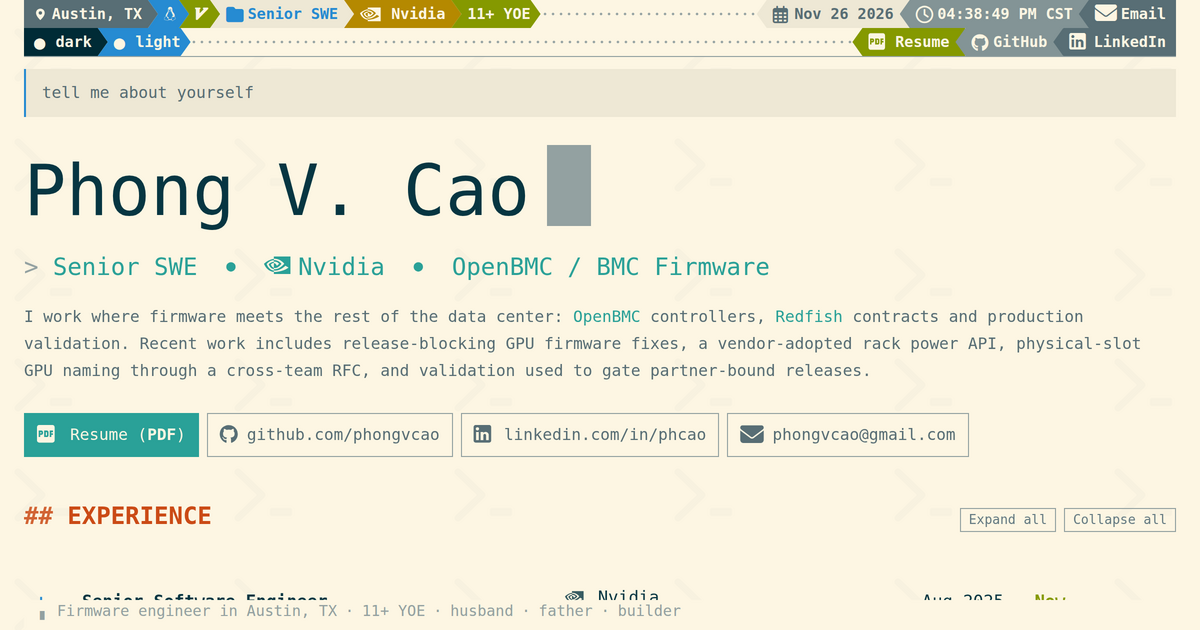
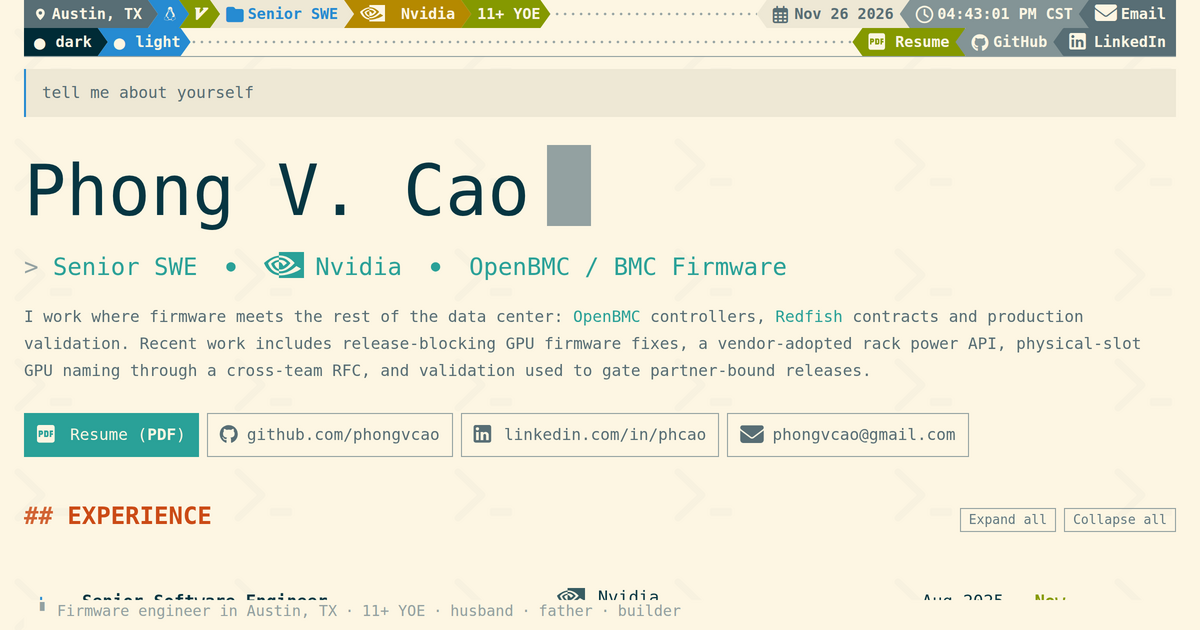
site: brand marks actually reach 1.5x cap
The sprite <svg> kept a square viewBox, so every mark was letterboxed inside a
square box: the eye measured 1.02x cap, Arista 1.14x, while the square marks
hit 1.50x. Dropping the outer viewBox and giving each mark its trimmed ratio
as an explicit width fixes it. Ink measured from screenshots at 4x:

  Nvidia   2.18 x 1.50 cap      Tesla   1.50 x 1.44
  Google   1.46 x 1.50          Arista  2.00 x 1.50
  Hire4Real 1.50 x 1.50

Powerline mark and hero mark were also inheriting the inflated glyph font
size; both now measure 1.50x cap.

diff --git a/index.html b/index.html
@@ -93,7 +93,7 @@
         <a class="pl-seg pl-blue" href="https://www.kernel.org/" target="_blank" rel="noopener" aria-label="Linux kernel" title="Linux"><span aria-hidden="true">&#xF17C;</span></a>
         <a class="pl-seg pl-vim pl-hide-sm" href="https://www.vim.org/" target="_blank" rel="noopener" aria-label="Vim" title="Vim"><span aria-hidden="true">&#xE62B;</span></a>
         <a class="pl-seg pl-dir pl-hide-sm" href="#experience-title" title="Experience"><span class="pl-icon" aria-hidden="true">&#xF07B;</span>Senior SWE</a>
-        <a class="pl-seg pl-vcs" href="https://www.nvidia.com/" target="_blank" rel="noopener" title="Nvidia"><span class="pl-icon" aria-hidden="true"><svg viewBox="0 0 24 24" focusable="false"><use href="#logo-nvidia"/></svg></span>Nvidia</a>
+        <a class="pl-seg pl-vcs" href="https://www.nvidia.com/" target="_blank" rel="noopener" title="Nvidia"><span class="pl-icon i-mark" aria-hidden="true"><svg class="lg-nvidia" focusable="false"><use href="#logo-nvidia"/></svg></span>Nvidia</a>
         <a class="pl-seg pl-context" href="#education-title" data-since="2015-06-01" data-template="{n}+ YOE" title="Years of experience">11+ YOE</a>
       </div>
       <span class="pl-fill" aria-hidden="true"></span>
@@ -125,7 +125,7 @@
     <article class="response">
 
       <h1>Phong V. Cao<span class="cursor" aria-hidden="true"></span></h1>
-      <p class="role"><span class="mark" aria-hidden="true">&gt; </span>Senior SWE<span class="role-group"><span class="role-dot" aria-hidden="true">&#x25CF;</span><a class="company-link" href="https://www.nvidia.com/" target="_blank" rel="noopener"><svg class="role-logo" viewBox="0 0 24 24" aria-hidden="true" focusable="false"><use href="#logo-nvidia"/></svg>Nvidia</a></span><span class="role-group"><span class="role-dot" aria-hidden="true">&#x25CF;</span><a class="term-link" href="https://openbmc.org/" target="_blank" rel="noopener">OpenBMC</a></span> / BMC Firmware</p>
+      <p class="role"><span class="mark" aria-hidden="true">&gt; </span>Senior SWE<span class="role-group"><span class="role-dot" aria-hidden="true">&#x25CF;</span><a class="company-link" href="https://www.nvidia.com/" target="_blank" rel="noopener"><svg class="lg-nvidia role-logo" aria-hidden="true" focusable="false"><use href="#logo-nvidia"/></svg>Nvidia</a></span><span class="role-group"><span class="role-dot" aria-hidden="true">&#x25CF;</span><a class="term-link" href="https://openbmc.org/" target="_blank" rel="noopener">OpenBMC</a></span> / BMC Firmware</p>
       <p class="intro">I work where firmware meets the rest of the data center: <a class="term-link" href="https://openbmc.org/" target="_blank" rel="noopener"><code>OpenBMC</code></a> controllers, <a class="term-link" href="https://www.dmtf.org/standards/redfish" target="_blank" rel="noopener"><code>Redfish</code></a> contracts and production validation. Recent work includes release-blocking GPU firmware fixes, a vendor-adopted rack power API, physical-slot GPU naming through a cross-team RFC, and validation used to gate partner-bound releases.</p>
 
       <nav class="actions" aria-label="Links">
@@ -148,7 +148,7 @@
             <summary class="exp-summary">
               <span class="exp-toggle" aria-hidden="true"></span>
               <h3 class="exp-role">Senior Software Engineer</h3>
-              <a class="exp-company company-link" href="https://www.nvidia.com/" target="_blank" rel="noopener"><span class="company-mark is-logo" aria-hidden="true"><svg viewBox="0 0 24 24" focusable="false"><use href="#logo-nvidia"/></svg></span>Nvidia</a>
+              <a class="exp-company company-link" href="https://www.nvidia.com/" target="_blank" rel="noopener"><span class="company-mark is-logo" aria-hidden="true"><svg class="lg-nvidia" focusable="false"><use href="#logo-nvidia"/></svg></span>Nvidia</a>
               <span class="exp-dates">Aug 2025 — <span class="now">Now</span></span>
             </summary>
             <div class="exp-body">
@@ -165,7 +165,7 @@
             <summary class="exp-summary">
               <span class="exp-toggle" aria-hidden="true"></span>
               <h3 class="exp-role">Senior Software Engineer</h3>
-              <a class="exp-company company-link" href="https://www.nvidia.com/" target="_blank" rel="noopener"><span class="company-mark is-logo" aria-hidden="true"><svg viewBox="0 0 24 24" focusable="false"><use href="#logo-nvidia"/></svg></span>Nvidia</a>
+              <a class="exp-company company-link" href="https://www.nvidia.com/" target="_blank" rel="noopener"><span class="company-mark is-logo" aria-hidden="true"><svg class="lg-nvidia" focusable="false"><use href="#logo-nvidia"/></svg></span>Nvidia</a>
               <span class="exp-dates">May 2024 — Aug 2025</span>
             </summary>
             <div class="exp-body">
@@ -181,7 +181,7 @@
             <summary class="exp-summary">
               <span class="exp-toggle" aria-hidden="true"></span>
               <h3 class="exp-role">Senior Software Engineer</h3>
-              <a class="exp-company company-link" href="https://www.tesla.com/" target="_blank" rel="noopener"><span class="company-mark is-logo" aria-hidden="true"><svg viewBox="0 0 24 24" focusable="false"><use href="#logo-tesla"/></svg></span>Tesla</a>
+              <a class="exp-company company-link" href="https://www.tesla.com/" target="_blank" rel="noopener"><span class="company-mark is-logo" aria-hidden="true"><svg class="lg-tesla" focusable="false"><use href="#logo-tesla"/></svg></span>Tesla</a>
               <span class="exp-dates">May 2023 — Feb 2024</span>
             </summary>
             <div class="exp-body">
@@ -197,7 +197,7 @@
             <summary class="exp-summary">
               <span class="exp-toggle" aria-hidden="true"></span>
               <h3 class="exp-role">Software Engineer</h3>
-              <a class="exp-company company-link" href="https://www.google.com/" target="_blank" rel="noopener"><span class="company-mark is-logo" aria-hidden="true"><svg viewBox="0 0 24 24" focusable="false"><use href="#logo-google"/></svg></span>Google</a>
+              <a class="exp-company company-link" href="https://www.google.com/" target="_blank" rel="noopener"><span class="company-mark is-logo" aria-hidden="true"><svg class="lg-google" focusable="false"><use href="#logo-google"/></svg></span>Google</a>
               <span class="exp-dates">Nov 2021 — Mar 2023</span>
             </summary>
             <div class="exp-body">
@@ -213,7 +213,7 @@
             <summary class="exp-summary">
               <span class="exp-toggle" aria-hidden="true"></span>
               <h3 class="exp-role">Software Engineer</h3>
-              <a class="exp-company company-link" href="https://www.google.com/" target="_blank" rel="noopener"><span class="company-mark is-logo" aria-hidden="true"><svg viewBox="0 0 24 24" focusable="false"><use href="#logo-google"/></svg></span>Google</a>
+              <a class="exp-company company-link" href="https://www.google.com/" target="_blank" rel="noopener"><span class="company-mark is-logo" aria-hidden="true"><svg class="lg-google" focusable="false"><use href="#logo-google"/></svg></span>Google</a>
               <span class="exp-dates">Dec 2019 — Nov 2021</span>
             </summary>
             <div class="exp-body">
@@ -229,7 +229,7 @@
             <summary class="exp-summary">
               <span class="exp-toggle" aria-hidden="true"></span>
               <h3 class="exp-role">Software Engineer</h3>
-              <a class="exp-company company-link" href="https://www.arista.com/" target="_blank" rel="noopener"><span class="company-mark is-logo is-wide" aria-hidden="true"><svg viewBox="0 0 24 24" focusable="false"><use href="#logo-arista"/></svg></span>Arista Networks</a>
+              <a class="exp-company company-link" href="https://www.arista.com/" target="_blank" rel="noopener"><span class="company-mark is-logo is-wide" aria-hidden="true"><svg class="lg-arista" focusable="false"><use href="#logo-arista"/></svg></span>Arista Networks</a>
               <span class="exp-dates">Jun 2015 — Dec 2019</span>
             </summary>
             <div class="exp-body">
@@ -244,7 +244,7 @@
             <summary class="exp-summary">
               <span class="exp-toggle" aria-hidden="true"></span>
               <h3 class="exp-role">Creator</h3>
-              <a class="exp-company company-link" href="https://hire4real.fyi/" target="_blank" rel="noopener"><span class="company-mark is-logo" aria-hidden="true"><svg viewBox="0 0 24 24" focusable="false"><use href="#logo-hire4real"/></svg></span>Hire4Real</a>
+              <a class="exp-company company-link" href="https://hire4real.fyi/" target="_blank" rel="noopener"><span class="company-mark is-logo" aria-hidden="true"><svg class="lg-hire4real" focusable="false"><use href="#logo-hire4real"/></svg></span>Hire4Real</a>
               <span class="exp-dates">Aug 2026 — <span class="now">Now</span></span>
             </summary>
             <div class="exp-body">
@@ -272,7 +272,7 @@
             <summary class="exp-summary decision-summary">
               <span class="exp-toggle" aria-hidden="true"></span>
               <h3 class="exp-role">Physical-slot GPU naming · HGX Rubin NVL8</h3>
-              <a class="exp-company company-link" href="https://www.nvidia.com/" target="_blank" rel="noopener"><span class="company-mark is-logo" aria-hidden="true"><svg viewBox="0 0 24 24" focusable="false"><use href="#logo-nvidia"/></svg></span>Nvidia</a>
+              <a class="exp-company company-link" href="https://www.nvidia.com/" target="_blank" rel="noopener"><span class="company-mark is-logo" aria-hidden="true"><svg class="lg-nvidia" focusable="false"><use href="#logo-nvidia"/></svg></span>Nvidia</a>
               <span class="exp-dates">Cross-team RFC</span>
               <span class="row-line">Standardized GPU names by physical slot through a cross-team RFC so firmware logs identify the hardware a technician must service.</span>
             </summary>
@@ -293,7 +293,7 @@
             <summary class="exp-summary decision-summary">
               <span class="exp-toggle" aria-hidden="true"></span>
               <h3 class="exp-role">Rack-power Redfish contract · GB200 NVL72</h3>
-              <a class="exp-company company-link" href="https://www.nvidia.com/" target="_blank" rel="noopener"><span class="company-mark is-logo" aria-hidden="true"><svg viewBox="0 0 24 24" focusable="false"><use href="#logo-nvidia"/></svg></span>Nvidia</a>
+              <a class="exp-company company-link" href="https://www.nvidia.com/" target="_blank" rel="noopener"><span class="company-mark is-logo" aria-hidden="true"><svg class="lg-nvidia" focusable="false"><use href="#logo-nvidia"/></svg></span>Nvidia</a>
               <span class="exp-dates">API design</span>
               <span class="row-line">Designed one rack-power API across power shelf vendors; a vendor adopted it and Nvidia's customer telemetry guide uses its power-state names.</span>
             </summary>
@@ -314,7 +314,7 @@
             <summary class="exp-summary decision-summary">
               <span class="exp-toggle" aria-hidden="true"></span>
               <h3 class="exp-role">AI Loop Engineering · Redfish Validation</h3>
-              <a class="exp-company company-link" href="https://www.nvidia.com/" target="_blank" rel="noopener"><span class="company-mark is-logo" aria-hidden="true"><svg viewBox="0 0 24 24" focusable="false"><use href="#logo-nvidia"/></svg></span>Nvidia</a>
+              <a class="exp-company company-link" href="https://www.nvidia.com/" target="_blank" rel="noopener"><span class="company-mark is-logo" aria-hidden="true"><svg class="lg-nvidia" focusable="false"><use href="#logo-nvidia"/></svg></span>Nvidia</a>
               <span class="exp-dates">Validation design</span>
               <span class="row-line">Made one live-board capture feed multiple validators and model comparisons, with automated checks instead of hand-entered conclusions.</span>
             </summary>
@@ -347,7 +347,7 @@
             <summary class="exp-summary">
               <span class="exp-toggle" aria-hidden="true"></span>
               <h3 class="exp-role work-role">GPU Management Controller Firmware</h3>
-              <a class="exp-company company-link" href="https://www.nvidia.com/" target="_blank" rel="noopener"><span class="company-mark is-logo" aria-hidden="true"><svg viewBox="0 0 24 24" focusable="false"><use href="#logo-nvidia"/></svg></span>Nvidia</a>
+              <a class="exp-company company-link" href="https://www.nvidia.com/" target="_blank" rel="noopener"><span class="company-mark is-logo" aria-hidden="true"><svg class="lg-nvidia" focusable="false"><use href="#logo-nvidia"/></svg></span>Nvidia</a>
               <span class="exp-dates work-tags">C++, OpenBMC, Redfish</span>
               <span class="row-line">Owned release-blocking GPU-baseboard fixes across <code>bmcweb</code>, <code>entity-manager</code> and telemetry, with changes shipped in 3 Nvidia products.</span>
             </summary>
@@ -363,7 +363,7 @@
             <summary class="exp-summary">
               <span class="exp-toggle" aria-hidden="true"></span>
               <h3 class="exp-role work-role">Rack Power Management</h3>
-              <a class="exp-company company-link" href="https://www.nvidia.com/" target="_blank" rel="noopener"><span class="company-mark is-logo" aria-hidden="true"><svg viewBox="0 0 24 24" focusable="false"><use href="#logo-nvidia"/></svg></span>Nvidia</a>
+              <a class="exp-company company-link" href="https://www.nvidia.com/" target="_blank" rel="noopener"><span class="company-mark is-logo" aria-hidden="true"><svg class="lg-nvidia" focusable="false"><use href="#logo-nvidia"/></svg></span>Nvidia</a>
               <span class="exp-dates work-tags">C++, sdbusplus, Redfish</span>
               <span class="row-line">Designed the GB200 NVL72 rack-power API and C++ D-Bus service so tools can read and set power policy across shelf vendors.</span>
             </summary>
@@ -379,7 +379,7 @@
             <summary class="exp-summary">
               <span class="exp-toggle" aria-hidden="true"></span>
               <h3 class="exp-role work-role">Redfish Conformance Automation</h3>
-              <a class="exp-company company-link" href="https://www.nvidia.com/" target="_blank" rel="noopener"><span class="company-mark is-logo" aria-hidden="true"><svg viewBox="0 0 24 24" focusable="false"><use href="#logo-nvidia"/></svg></span>Nvidia</a>
+              <a class="exp-company company-link" href="https://www.nvidia.com/" target="_blank" rel="noopener"><span class="company-mark is-logo" aria-hidden="true"><svg class="lg-nvidia" focusable="false"><use href="#logo-nvidia"/></svg></span>Nvidia</a>
               <span class="exp-dates work-tags">Python, FastAPI, Docker</span>
               <span class="row-line">Built a repeatable conformance workflow that checks release images against real hardware using one shared capture across validators.</span>
             </summary>
@@ -395,7 +395,7 @@
             <summary class="exp-summary">
               <span class="exp-toggle" aria-hidden="true"></span>
               <h3 class="exp-role work-role">Security Risk Automation</h3>
-              <a class="exp-company company-link" href="https://www.google.com/" target="_blank" rel="noopener"><span class="company-mark is-logo" aria-hidden="true"><svg viewBox="0 0 24 24" focusable="false"><use href="#logo-google"/></svg></span>Google</a>
+              <a class="exp-company company-link" href="https://www.google.com/" target="_blank" rel="noopener"><span class="company-mark is-logo" aria-hidden="true"><svg class="lg-google" focusable="false"><use href="#logo-google"/></svg></span>Google</a>
               <span class="exp-dates work-tags">Go, C++, Spanner</span>
               <span class="row-line">Automated device risk decisions using hardware security-key data and modified-firmware signals, cutting pipeline latency about 15% and improving Spanner performance about 11%.</span>
             </summary>
@@ -410,7 +410,7 @@
             <summary class="exp-summary">
               <span class="exp-toggle" aria-hidden="true"></span>
               <h3 class="exp-role work-role">Server Hardware Testing</h3>
-              <a class="exp-company company-link" href="https://www.google.com/" target="_blank" rel="noopener"><span class="company-mark is-logo" aria-hidden="true"><svg viewBox="0 0 24 24" focusable="false"><use href="#logo-google"/></svg></span>Google</a>
+              <a class="exp-company company-link" href="https://www.google.com/" target="_blank" rel="noopener"><span class="company-mark is-logo" aria-hidden="true"><svg class="lg-google" focusable="false"><use href="#logo-google"/></svg></span>Google</a>
               <span class="exp-dates work-tags">Go, C++, Python</span>
               <span class="row-line">Built one common hardware-access API across many server types and tests for CPU and memory weaknesses on Intel and AMD fleets.</span>
             </summary>
@@ -426,7 +426,7 @@
             <summary class="exp-summary">
               <span class="exp-toggle" aria-hidden="true"></span>
               <h3 class="exp-role work-role">Factory Material Flow</h3>
-              <a class="exp-company company-link" href="https://www.tesla.com/" target="_blank" rel="noopener"><span class="company-mark is-logo" aria-hidden="true"><svg viewBox="0 0 24 24" focusable="false"><use href="#logo-tesla"/></svg></span>Tesla</a>
+              <a class="exp-company company-link" href="https://www.tesla.com/" target="_blank" rel="noopener"><span class="company-mark is-logo" aria-hidden="true"><svg class="lg-tesla" focusable="false"><use href="#logo-tesla"/></svg></span>Tesla</a>
               <span class="exp-dates work-tags">Go, Kafka</span>
               <span class="row-line">Led factory Material Flow features and pickup/drop-off prioritization, lifting throughput about 21% and Kafka performance about 33%.</span>
             </summary>
@@ -442,7 +442,7 @@
             <summary class="exp-summary">
               <span class="exp-toggle" aria-hidden="true"></span>
               <h3 class="exp-role work-role">Switch-Chip Drivers</h3>
-              <a class="exp-company company-link" href="https://www.arista.com/" target="_blank" rel="noopener"><span class="company-mark is-logo is-wide" aria-hidden="true"><svg viewBox="0 0 24 24" focusable="false"><use href="#logo-arista"/></svg></span>Arista Networks</a>
+              <a class="exp-company company-link" href="https://www.arista.com/" target="_blank" rel="noopener"><span class="company-mark is-logo is-wide" aria-hidden="true"><svg class="lg-arista" focusable="false"><use href="#logo-arista"/></svg></span>Arista Networks</a>
               <span class="exp-dates work-tags">C, C++, Linux</span>
               <span class="row-line">Developed kernel modules and switch-chip drivers for Arista EOS on thousands of cloud data-center switches, improving transfer rates about 19%.</span>
             </summary>
@@ -457,7 +457,7 @@
             <summary class="exp-summary">
               <span class="exp-toggle" aria-hidden="true"></span>
               <h3 class="exp-role work-role">hire4real.fyi</h3>
-              <a class="exp-company company-link" href="https://hire4real.fyi/" target="_blank" rel="noopener"><span class="company-mark is-logo" aria-hidden="true"><svg viewBox="0 0 24 24" focusable="false"><use href="#logo-hire4real"/></svg></span>Hire4Real</a>
+              <a class="exp-company company-link" href="https://hire4real.fyi/" target="_blank" rel="noopener"><span class="company-mark is-logo" aria-hidden="true"><svg class="lg-hire4real" focusable="false"><use href="#logo-hire4real"/></svg></span>Hire4Real</a>
               <span class="exp-dates work-tags">Python, AI agents</span>
               <span class="row-line">Built and operates a public index of 11M+ US Department of Labor filings across 333K+ employers, serving 700K+ unique visitors per month.</span>
             </summary>

diff --git a/styles.css b/styles.css
@@ -190,12 +190,15 @@ h1 {
   line-height: 1.4;
 }
 
-.role-logo {
-  height: 1.102em;
-  width: auto;
-  margin-right: 0.3em;
-  fill: currentColor;
-  vertical-align: -0.12em;
+.pl-icon svg {
+  display: inline-block;
+  vertical-align: -0.18em;
+}
+
+/* The glyph sizes above are tuned per Nerd Font mark; an SVG mark wants the
+   plain text size back so 1.102em is measured against the bar's text. */
+.pl-icon.i-mark {
+  font-size: 1em;
 }
 
 /* Separator: the same disc the theme buttons use, in the link colour. The
@@ -541,11 +544,25 @@ code {
   padding: 0;
 }
 
-.company-mark svg {
+.company-mark svg,
+.pl-icon svg,
+.role-logo {
   height: 1.102em;
   width: auto;
+  flex: none;
+  margin-right: 0.45em;
   fill: currentColor;
+  vertical-align: -0.12em;
 }
+
+/* The outer <svg> has no viewBox, so the symbol fills whatever box CSS gives
+   it. Widths are the trimmed ratio times the 1.102em height: a square box
+   would letterbox the wide marks back down to nothing. */
+svg.lg-nvidia { width: 1.667em; }   /* 24 / 15.87 */
+svg.lg-tesla { width: 1.102em; }
+svg.lg-google { width: 1.074em; }   /* 23.39 / 24 */
+svg.lg-arista { width: 1.486em; }   /* 24 / 17.8 */
+svg.lg-hire4real { width: 1.102em; }
 
 .logo-sprite {
   position: absolute;
@@ -1205,14 +1222,6 @@ h1 .cursor {
 
 .pl-icon {
   margin-right: 0.28em;
-}
-
-.pl-icon svg {
-  display: inline-block;
-  height: 1.102em;
-  width: auto;
-  fill: currentColor;
-  vertical-align: -0.18em;
 }
 
 
